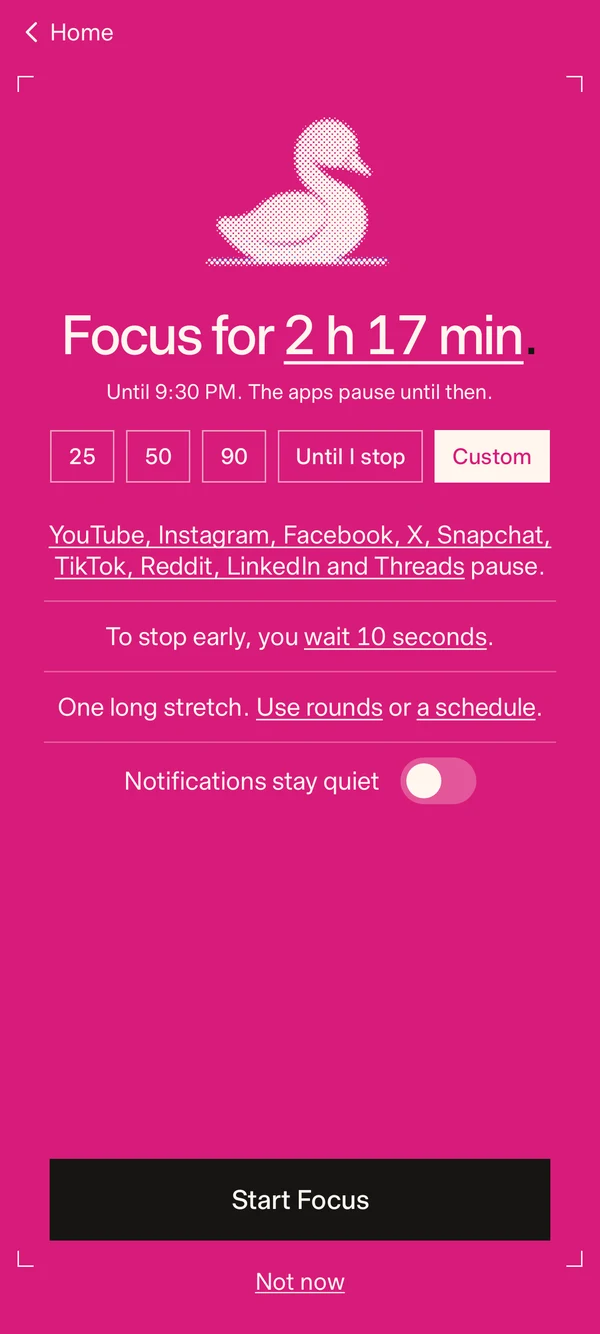
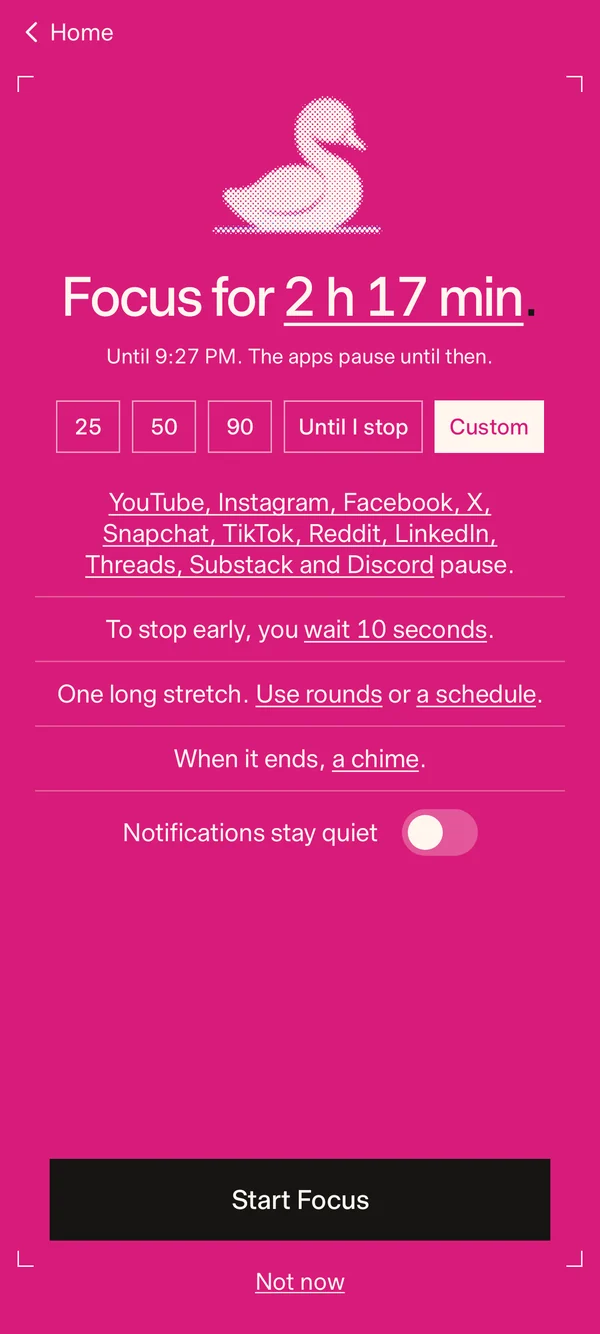
Discord in the Gone grid, corrected labels, background play and widget lines, fresh Focus and Sleep screens

Changed region(s): [[0.09, 0.0615, 0.93, 0.6454]]

diff --git a/index.html b/index.html
@@ -4,9 +4,9 @@
 <meta charset="utf-8">
 <meta name="viewport" content="width=device-width, initial-scale=1, viewport-fit=cover">
 <title>Idyll</title>
-<meta name="description" content="Idyll takes the ads, Shorts, Reels and algorithmic feeds out of YouTube, Instagram, TikTok, X and five more. Free, for good.">
+<meta name="description" content="Idyll takes the short video, ads and algorithmic feeds out of YouTube, Instagram, TikTok, X and six more social apps. Free, for good.">
 <meta property="og:title" content="Idyll. Social, without the scroll.">
-<meta property="og:description" content="Idyll takes the ads, Shorts, Reels and algorithmic feeds out of YouTube, Instagram, TikTok, X and five more. Free, for good.">
+<meta property="og:description" content="Idyll takes the short video, ads and algorithmic feeds out of YouTube, Instagram, TikTok, X and six more social apps. Free, for good.">
 <meta property="og:image" content="https://eoinforker.github.io/idyll-site/img/icons/H2-white-on-magenta.png">
 <meta name="twitter:card" content="summary">
 <meta name="theme-color" content="#f6f5f1">
@@ -142,6 +142,7 @@ a:hover { color: var(--pink); }
 /* Two ways in, folded into the plate. */
 .ways { max-width: 380px; }
 .ways > p { font: 400 15px/1.45 var(--sans); }
+.ways > p + p { margin-top: 10px; }
 .ways .plats { margin-top: 16px; width: 100%; gap: 8px; }
 .ways .leader i { border-color: currentColor; }
 @media (max-width: 860px) { .plate .crop { padding-bottom: 52px; } .ways { margin-top: 4px; } }
@@ -191,7 +192,7 @@ footer { border-top: 1px solid rgba(255,246,238,.2); padding: 16px 0 24px; displ
 .mk { width: 60px; height: 60px; }
 .stop { color: var(--pink); font-weight: inherit; }
 
-/* Ten apps: a grid of printed marks, four across. */
+/* Eleven apps: a grid of printed marks, four across. Discord only pauses, so its strike is lighter. */
 .marks ul { grid-template-columns: repeat(4, minmax(0, 1fr)); gap: 20px 10px; }
 .marks li { grid-template-columns: none; justify-items: start; gap: 8px; font-size: 13.5px; line-height: 1.25; }
 .mk { width: 52px; height: 52px; }
@@ -209,7 +210,7 @@ footer { border-top: 1px solid rgba(255,246,238,.2); padding: 16px 0 24px; displ
   <main id="top">
     <div class="lede">
       <p class="lockup"><img src="./img/icons/H2-white-on-magenta-1024.png" width="1024" height="1024" alt=""><span>Idyll</span></p>
-      <p class="soon"><span class="tag"><b>Coming soon</b><svg viewBox="0 0 26 22" aria-hidden="true"><circle cx="3" cy="3.7" r="3.6"/><circle cx="3" cy="11" r="3.6"/><circle cx="3" cy="18.3" r="3.6"/><circle cx="9.6" cy="3.7" r="2.9"/><circle cx="9.6" cy="11" r="2.9"/><circle cx="9.6" cy="18.3" r="2.9"/><circle cx="15.8" cy="3.7" r="2.1"/><circle cx="15.8" cy="11" r="2.1"/><circle cx="15.8" cy="18.3" r="2.1"/><circle cx="21.2" cy="3.7" r="1.3"/><circle cx="21.2" cy="11" r="1.3"/><circle cx="21.2" cy="18.3" r="1.3"/><circle cx="25" cy="7.3" r=".6"/><circle cx="25" cy="14.7" r=".6"/></svg></span><span class="on">iPhone, Android, Chrome and Mac</span></p>
+      <p class="soon"><span class="tag"><b>Coming soon</b><svg viewBox="0 0 26 22" aria-hidden="true"><circle cx="3" cy="3.7" r="3.6"/><circle cx="3" cy="11" r="3.6"/><circle cx="3" cy="18.3" r="3.6"/><circle cx="9.6" cy="3.7" r="2.9"/><circle cx="9.6" cy="11" r="2.9"/><circle cx="9.6" cy="18.3" r="2.9"/><circle cx="15.8" cy="3.7" r="2.1"/><circle cx="15.8" cy="11" r="2.1"/><circle cx="15.8" cy="18.3" r="2.1"/><circle cx="21.2" cy="3.7" r="1.3"/><circle cx="21.2" cy="11" r="1.3"/><circle cx="21.2" cy="18.3" r="1.3"/><circle cx="25" cy="7.3" r=".6"/><circle cx="25" cy="14.7" r=".6"/></svg></span><span class="on">iPhone, Android and Chrome</span></p>
     </div>
 
     <section class="hero" aria-labelledby="h">
@@ -231,16 +232,17 @@ footer { border-top: 1px solid rgba(255,246,238,.2); padding: 16px 0 24px; displ
         <div class="marks">
           <p class="lbl">Gone</p>
           <ul>
-            <li><span class="mk" data-mark="youtube"><canvas aria-hidden="true"></canvas></span><span><span class="sr">From YouTube, Idyll removes: </span>Shorts, ads</span></li>
+            <li><span class="mk" data-mark="youtube"><canvas aria-hidden="true"></canvas></span><span><span class="sr">From YouTube, Idyll removes: </span>Shorts, home feed, ads</span></li>
             <li><span class="mk" data-mark="instagram"><canvas aria-hidden="true"></canvas></span><span><span class="sr">From Instagram, Idyll removes: </span>Reels, Explore</span></li>
             <li><span class="mk" data-mark="facebook"><canvas aria-hidden="true"></canvas></span><span><span class="sr">From Facebook, Idyll removes: </span>Reels, Watch</span></li>
-            <li><span class="mk" data-mark="x"><canvas aria-hidden="true"></canvas></span><span><span class="sr">From X, Idyll removes: </span>For you, Promoted</span></li>
+            <li><span class="mk" data-mark="x"><canvas aria-hidden="true"></canvas></span><span><span class="sr">From X, Idyll removes: </span>For you</span></li>
             <li><span class="mk" data-mark="snapchat"><canvas aria-hidden="true"></canvas></span><span><span class="sr">From Snapchat, Idyll removes: </span>Spotlight, Discover</span></li>
-            <li><span class="mk" data-mark="tiktok"><canvas aria-hidden="true"></canvas></span><span><span class="sr">From TikTok, Idyll removes: </span>For You</span></li>
+            <li><span class="mk" data-mark="tiktok"><canvas aria-hidden="true"></canvas></span><span><span class="sr">From TikTok, Idyll removes: </span>For You, LIVE</span></li>
             <li><span class="mk" data-mark="reddit"><canvas aria-hidden="true"></canvas></span><span><span class="sr">From Reddit, Idyll removes: </span>Home, Popular</span></li>
             <li><span class="mk" data-mark="linkedin"><canvas aria-hidden="true"></canvas></span><span><span class="sr">From LinkedIn, Idyll removes: </span>The feed</span></li>
             <li><span class="mk" data-mark="threads"><canvas aria-hidden="true"></canvas></span><span><span class="sr">From Threads, Idyll removes: </span>For you</span></li>
-            <li><span class="mk" data-mark="substack"><canvas aria-hidden="true"></canvas></span><span><span class="sr">From Substack, Idyll removes: </span>Notes, For you</span></li>
+            <li><span class="mk" data-mark="substack"><canvas aria-hidden="true"></canvas></span><span><span class="sr">From Substack, Idyll removes: </span>The home feed</span></li>
+            <li class="paused"><span class="mk" data-mark="discord" data-soft><canvas aria-hidden="true"></canvas></span><span><span class="sr">Discord: </span>Paused for Sleep and Focus</span></li>
           </ul>
         </div>
         <div class="win">
@@ -257,6 +259,7 @@ footer { border-top: 1px solid rgba(255,246,238,.2); padding: 16px 0 24px; displ
         </div>
         <div class="ways">
           <p>Use the real app with a guard inside it, or a clean version in Idyll. Your choice, per app.</p>
+          <p>Videos and podcasts keep playing when you lock your phone.</p>
         </div>
       </div>
     </div>
@@ -268,9 +271,10 @@ footer { border-top: 1px solid rgba(255,246,238,.2); padding: 16px 0 24px; displ
     <div class="words">
       <h2><span>Focus<b class="stop">.</b></span><span>A short break<b class="stop">.</b></span><span>Again<b class="stop">.</b></span></h2>
       <p>Pick a length or rounds. Notifications stay quiet until it ends.</p>
+      <p>Today and Focus on your home screen.</p>
     </div>
     <div class="shots">
-      <img src="./img/screens/focus-start.webp" width="600" height="1334" alt="Focus for 2 h 17 min on the magenta plate, with lengths to pick, a 10 second wait to stop early, rounds or a schedule, and Notifications stay quiet" loading="lazy" decoding="async">
+      <img src="./img/screens/focus-start.webp" width="600" height="1334" alt="Focus for 2 h 17 min on the magenta plate: lengths to pick, the eleven apps that pause, a 10 second wait to stop early, rounds or a schedule, a chime when it ends, and Notifications stay quiet" loading="lazy" decoding="async">
     </div>
   </div></div>
   <div class="half dark" id="sleep"><div class="crop">
@@ -279,7 +283,7 @@ footer { border-top: 1px solid rgba(255,246,238,.2); padding: 16px 0 24px; displ
       <p>Set a bedtime and a morning. In between, the apps rest.</p>
     </div>
     <div class="shots">
-      <img src="./img/screens/sleep.webp" width="600" height="1334" alt="Sleep as a night print: the sleeping cygnet under a halftone moon, Bedtime at 11:30 PM, Up again at 7:15 AM" loading="lazy" decoding="async">
+      <img src="./img/screens/sleep.webp" width="600" height="1334" alt="Sleep as a night print: the sleeping cygnet under a halftone moon, Bedtime at 11:30 PM, Up again at 7:15 AM, a quiet note before bed, and Start Sleep" loading="lazy" decoding="async">
     </div>
   </div></div>
 </section>
@@ -294,7 +298,7 @@ footer { border-top: 1px solid rgba(255,246,238,.2); padding: 16px 0 24px; displ
     <p class="fine night-fine">Screens from the Android app, with sample data.</p>
     <footer>
       <span>Idyll. Social without the scroll. Coming soon. <a href="./privacy.html">Privacy</a> &nbsp; <a href="./support.html">Support</a> &nbsp; <a href="https://ko-fi.com/idyllsocial">Ko-fi</a></span>
-      <span>YouTube, Instagram, Facebook, X, Snapchat, TikTok, Reddit, LinkedIn, Threads and Substack are trademarks of their owners. Idyll isn't affiliated with any of them.</span>
+      <span>YouTube, Instagram, Facebook, X, Snapchat, TikTok, Reddit, LinkedIn, Threads, Substack and Discord are trademarks of their owners. Idyll isn't affiliated with any of them.</span>
     </footer>
   </div>
 </div>
@@ -342,7 +346,7 @@ footer { border-top: 1px solid rgba(255,246,238,.2); padding: 16px 0 24px; displ
       return [{ col: CREAM, dx: 0, dy: 0, dots: screen(a, w, h, p.cell, 45 * Math.PI / 180, (u, v) => .5 + .5 * Math.min(1, .25 + 1.1 * u * u + .6 * v), .56, dl) }];
     } });
   /* The marks: our own halftone prints of each logo, struck through in blue. */
-  document.querySelectorAll('.mk').forEach((el, i) => prints.push({ el, cv: el.querySelector('canvas'), src: `./img/brands/${el.dataset.mark}.svg`, cross: 700 + i * 140,
+  document.querySelectorAll('.mk').forEach((el, i) => prints.push({ el, cv: el.querySelector('canvas'), src: `./img/brands/${el.dataset.mark}.svg`, cross: 700 + i * 140, soft: 'soft' in el.dataset,
     cellOf: cw => cw / 24, inset: .1, blur: .15,
     build(p, a, w, h) { return [{ col: CREAM, dx: 0, dy: 0, dots: screen(a, w, h, p.cell, 45 * Math.PI / 180, () => 1, .58, (u, v) => 300 + i * 140 + u * 260) }]; } }));
 
@@ -384,8 +388,8 @@ footer { border-top: 1px solid rgba(255,246,238,.2); padding: 16px 0 24px; displ
       const k = ease(clamp((now - p.t0 - p.cross) / 420)); if (k < 1) busy = true;
       if (k > 0) {
         const ox = 2 * p.dpr, oy = -1.5 * p.dpr, y0 = H * .6 + oy, y1 = H * .4 + oy;
-        g.strokeStyle = BLUE; g.lineWidth = W * .1; g.lineCap = 'butt'; g.beginPath();
-        g.moveTo(ox, y0); g.lineTo(ox + W * k, y0 + (y1 - y0) * k); g.stroke();
+        g.strokeStyle = BLUE; g.lineWidth = W * (p.soft ? .045 : .1); g.globalAlpha = p.soft ? .7 : 1; g.lineCap = 'butt'; g.beginPath();
+        g.moveTo(ox, y0); g.lineTo(ox + W * k, y0 + (y1 - y0) * k); g.stroke(); g.globalAlpha = 1;
       }
     }
     return busy;
